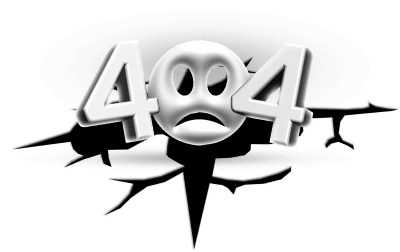
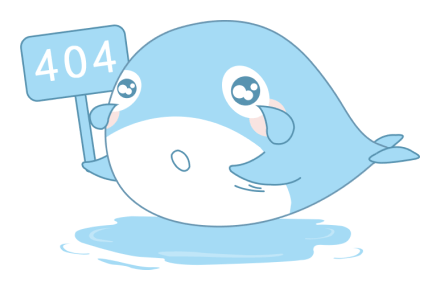
Pokemon - styled error status.

diff --git a/src/components/Pokemon/PokemonErrorView/PokemonErrorView.jsx b/src/components/Pokemon/PokemonErrorView/PokemonErrorView.jsx
@@ -1,14 +1,25 @@
 import errorImage from 'assets/images/404.png';
+import { PokemonDataView } from '../PokemonDataView/PokemonDataView';
 
-import { DecoratedImg } from 'components/DecoratedImg/DecoratedImg';
-import { Text } from 'components/Text/Text';
+// import { DecoratedImg } from 'components/DecoratedImg/DecoratedImg';
+// import { Text } from 'components/Text/Text';
 
 export const PokemonErrorView = ({ message }) => {
+  const pokemon = {
+    name: message,
+    sprites: {
+      other: {
+        'official-artwork': {
+          front_default: errorImage,
+        },
+      },
+    },
+    stats: [],
+  };
+
   return (
     <div role="alert">
-      <DecoratedImg src={errorImage} name="Not found" width={400} />
-      {/* <img src={errorImage} width="400" alt="Not found" /> */}
-      <Text>{message}</Text>
+      <PokemonDataView pokemon={pokemon} />
     </div>
   );
 };

diff --git a/src/components/Pokemon/PokemonPendingView/PokemonPendingView.module.css b/src/components/Pokemon/PokemonPendingView/PokemonPendingView.module.css
@@ -12,7 +12,7 @@
   justify-content: center;
   align-items: center;
   border-radius: 6px;
-  padding: 10px;
+  padding: 10px 20px;
   background-color: var(--color-text);
 }
 
